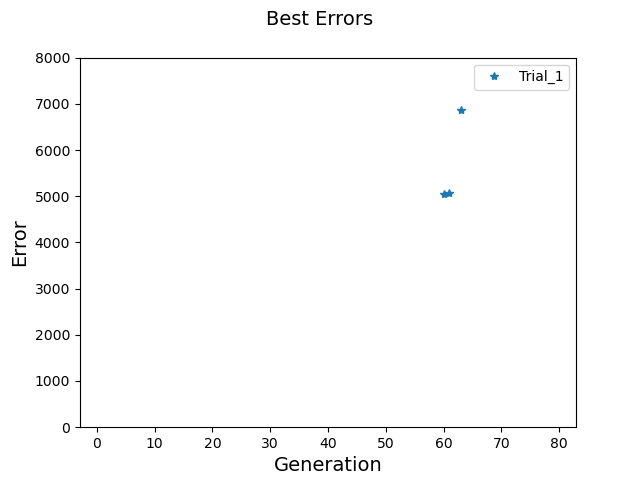
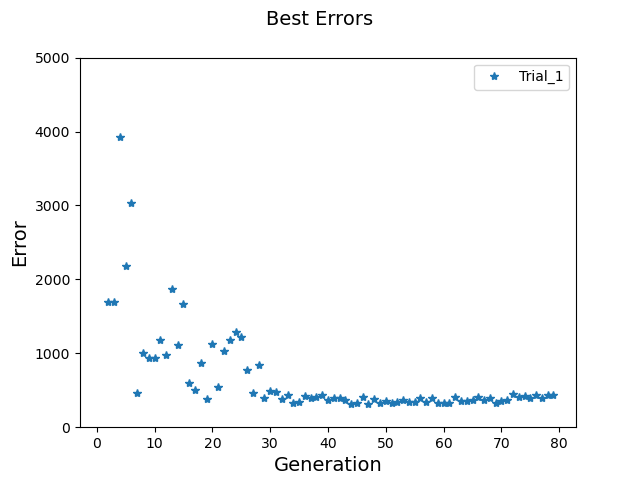
newga

diff --git a/GA_cond/functions.py b/GA_cond/functions.py
@@ -15,8 +15,8 @@ def plot_GA(ind):
             k1, k2 = k.split('.')
             mod[k1][k2].set_rhs(v)
     
-    mod['ik1']['g_K1'].set_rhs(mod['ik1']['g_K1'].value()*(11.24/5.67))
-    mod['ina']['g_Na'].set_rhs(mod['ina']['g_Na'].value()*(187/129))
+    #mod['ik1']['g_K1'].set_rhs(mod['ik1']['g_K1'].value()*(11.24/5.67))
+    #mod['ina']['g_Na'].set_rhs(mod['ina']['g_Na'].value()*(187/129))
 
     proto.schedule(4, 10, 1, 1000, 0) 
     sim = myokit.Simulation(mod,proto)
@@ -148,13 +148,13 @@ def plot_cond(ind, lab):
 
 #%%
 def ind_excel():
-    ind_1 = pd.read_excel('Best_ind_1.xlsx')
+    ind_1 = pd.read_excel('Best_ind1.xlsx')
     ind_1 = ind_1.to_dict('index')
 
     return ind_1
 
 #%%
 def err_excel():
-    err_1 = pd.read_excel('Errors_1.xlsx')
+    err_1 = pd.read_excel('Errors1.xlsx')
 
     return err_1

diff --git a/GA_cond/plot_GA.py b/GA_cond/plot_GA.py
@@ -52,7 +52,7 @@ for apd_pct in [50, 90]:
 
 ap_features['mdp']= mdp
 
-print(ap_features)
+#print(ap_features)
 
 #%%
 ############ PLOT BEST ERROR ################
@@ -63,14 +63,14 @@ err_1 = err_excel()
 err = [err_1]
 
 for i in list(range(0,len(err))):
-    best_err = list(err[i]['Best Error'])
+    best_err = list(err[i]['Avg Error'])
     plt.plot(gen, best_err,'*', label = f'Trial_{i+1}')
 
 plt.legend()
 plt.ylabel('Error', fontsize=14)
 plt.xlabel('Generation', fontsize=14)
 plt.suptitle('Best Errors', fontsize=14)
-plt.ylim(0,8000)
+plt.ylim(0,5000)
 plt.savefig('Plot_Best_Errors.png')
 plt.show()
 

diff --git a/GA_cond/HCM_GA_KernikUpdate.py b/GA_cond/HCM_GA_KernikUpdate.py
@@ -135,8 +135,8 @@ def run_ga(toolbox):
         best.append(best_fit)
     
     # Average and Best Errors in Excel file
-    df_avg_err = pd.DataFrame(best, columns=["Avg Error"])
-    df_best_err = pd.DataFrame(avg, columns=["Best Error"])
+    df_avg_err = pd.DataFrame(avg, columns=["Avg Error"])
+    df_best_err = pd.DataFrame(best, columns=["Best Error"])
     dfe = df_avg_err.join(df_best_err, how="outer")
     dfe.to_excel('Errors.xlsx', sheet_name='Sheet1', index=False)
     
